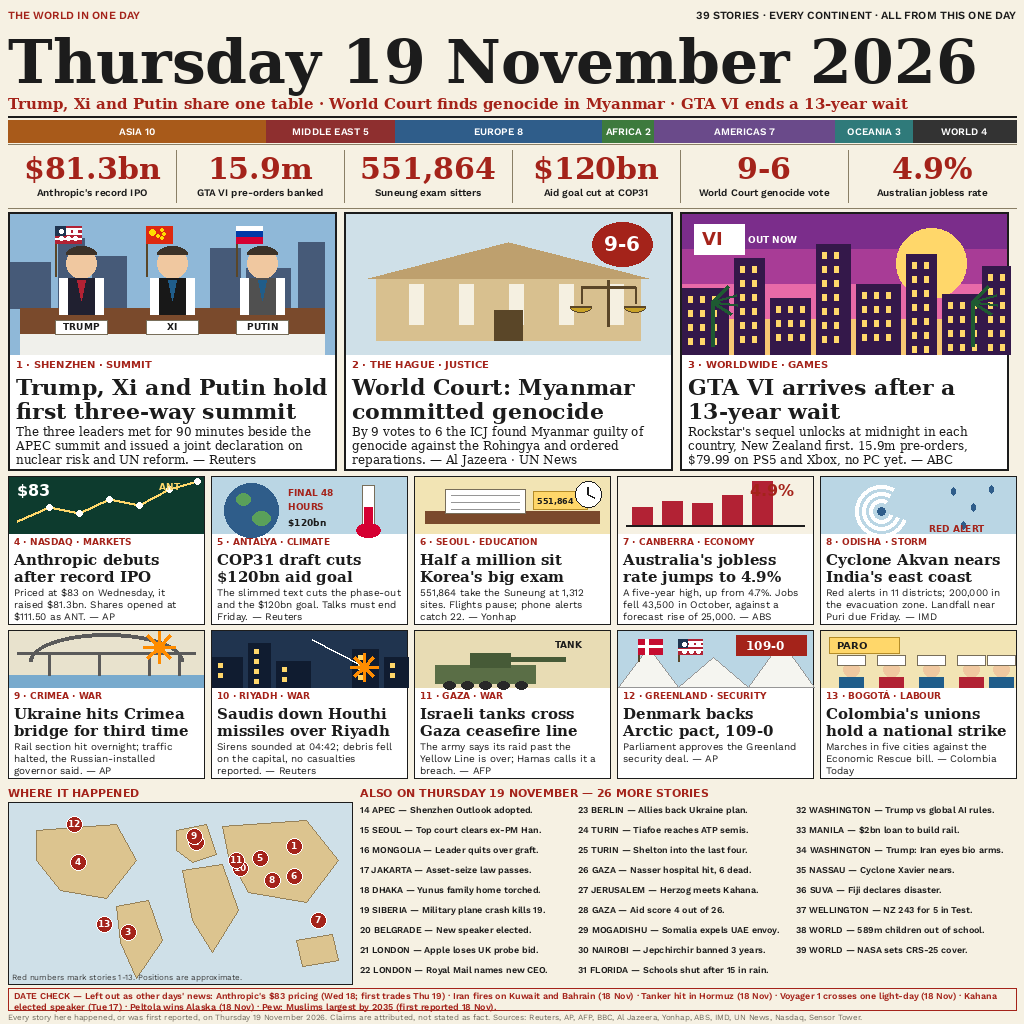
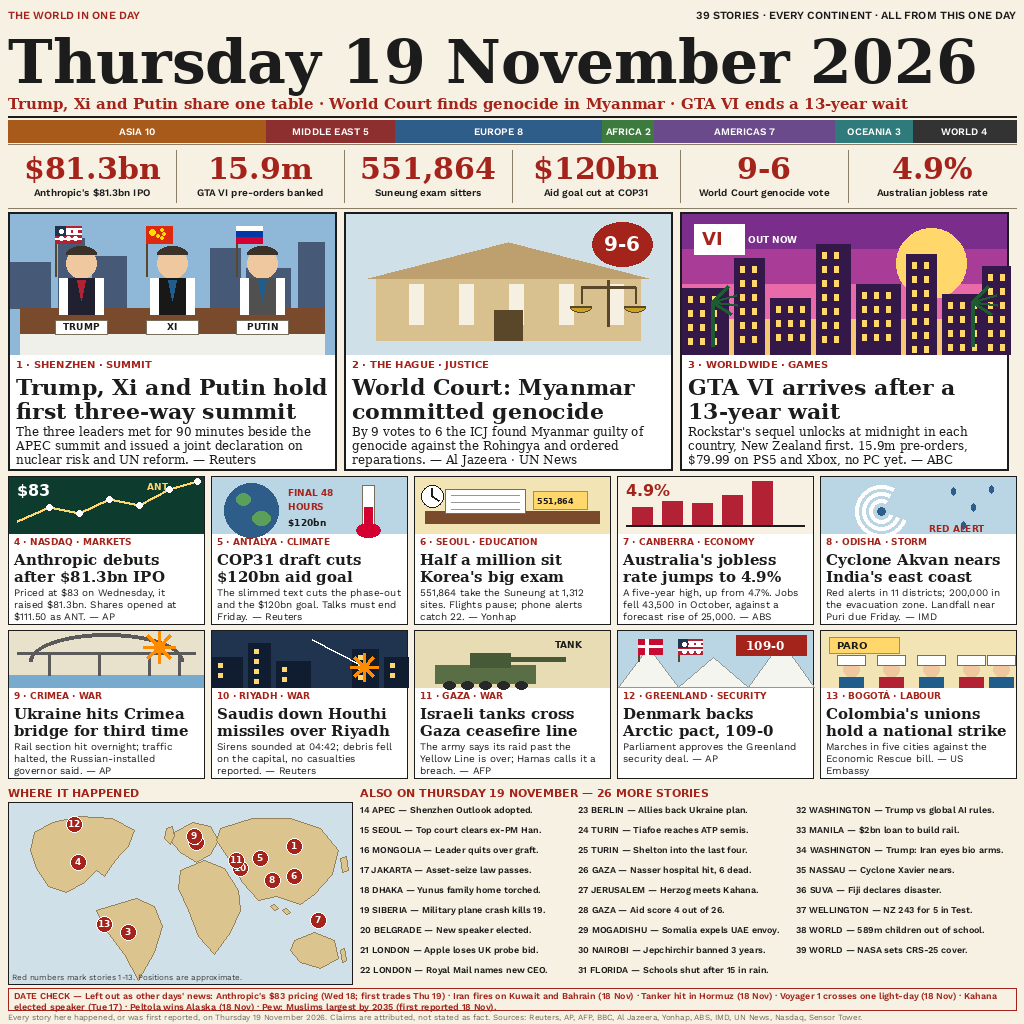
news-image-20261119 v3: audit fixes for judge criteria 4 and 5

diff --git a/make_image.py b/make_image.py
@@ -136,7 +136,7 @@ LEADS = [
 
 MEDIUMS = [
     {"n": 4, "kick": "NASDAQ \u00b7 MARKETS", "art": "anthropic",
-     "head": "Anthropic debuts after record IPO",
+     "head": "Anthropic debuts after $81.3bn IPO",
      "body": "Priced at $83 on Wednesday, it raised $81.3bn. Shares opened at $111.50 as ANT. \u2014 AP"},
     {"n": 5, "kick": "ANTALYA \u00b7 CLIMATE", "art": "cop31",
      "head": "COP31 draft cuts $120bn aid goal",
@@ -164,7 +164,7 @@ MEDIUMS = [
      "body": "Parliament approves the Greenland security deal. \u2014 AP"},
     {"n": 13, "kick": "BOGOT\u00c1 \u00b7 LABOUR", "art": "strike",
      "head": "Colombia's unions hold a national strike",
-     "body": "Marches in five cities against the Economic Rescue bill. \u2014 Colombia Today"},
+     "body": "Marches in five cities against the Economic Rescue bill. \u2014 US Embassy"},
 ]
 
 BRIEFS = [
@@ -201,7 +201,7 @@ REGIONS = [("ASIA", 10, (168, 90, 26)), ("MIDDLE EAST", 5, (142, 47, 47)),
            ("AMERICAS", 7, (106, 74, 138)), ("OCEANIA", 3, (47, 122, 122)),
            ("WORLD", 4, (51, 51, 51))]
 
-NUMBERS = [("$81.3bn", "Anthropic's record IPO"),
+NUMBERS = [("$81.3bn", "Anthropic's $81.3bn IPO"),
            ("15.9m", "GTA VI pre-orders banked"),
            ("551,864", "Suneung exam sitters"),
            ("$120bn", "Aid goal cut at COP31"),
@@ -287,7 +287,7 @@ def illo_anthropic(d, x, y, w, h):
     f = font(SANSB, 16)
     d.text((x + 8, y + 4), "$83", font=f, fill=(255, 255, 255))
     f2 = font(SANSB, 9)
-    d.text((x + 150, y + 4), "ANT", font=f2, fill=(255, 215, 106))
+    d.text((x + 138, y + 4), "ANT", font=f2, fill=(255, 215, 106))
 
 
 def illo_cop31(d, x, y, w, h):
@@ -316,10 +316,10 @@ def illo_suneung(d, x, y, w, h):
                 outline=(180, 140, 40))
     f = font(SANSB, 8)
     d.text((x + 122, y + 19), "551,864", font=f, fill=INK)
-    d.ellipse([x + w - 34, y + 4, x + w - 8, y + 30], fill=(255, 255, 255),
+    d.ellipse([x + 6, y + 8, x + 28, y + 30], fill=(255, 255, 255),
               outline=INK)
-    d.line([x + w - 21, y + 17, x + w - 21, y + 10], fill=INK, width=2)
-    d.line([x + w - 21, y + 17, x + w - 15, y + 20], fill=INK, width=2)
+    d.line([x + 17, y + 19, x + 17, y + 11], fill=INK, width=2)
+    d.line([x + 17, y + 19, x + 23, y + 23], fill=INK, width=2)
 
 
 def illo_jobs(d, x, y, w, h):
@@ -330,7 +330,7 @@ def illo_jobs(d, x, y, w, h):
         d.rectangle([bx, y + h - 8 - bh, bx + 20, y + h - 8], fill=(178, 34, 52))
     d.line([x + 8, y + h - 8, x + w - 8, y + h - 8], fill=INK, width=2)
     f = font(SANSB, 16)
-    d.text((x + w - 62, y + 4), "4.9%", font=f, fill=RED)
+    d.text((x + 8, y + 4), "4.9%", font=f, fill=RED)
 
 
 def illo_cyclone(d, x, y, w, h):
@@ -511,12 +511,24 @@ def draw_mediums(d):
 
 
 CONTINENTS = [
-    [(28, 28), (108, 22), (128, 58), (98, 96), (52, 88), (28, 58)],
-    [(108, 104), (140, 98), (154, 138), (128, 176), (112, 140)],
-    [(168, 28), (198, 22), (208, 52), (184, 60), (168, 48)],
-    [(174, 68), (214, 62), (230, 108), (204, 150), (184, 118)],
-    [(214, 24), (298, 18), (330, 58), (298, 100), (240, 90), (220, 54)],
-    [(288, 138), (324, 132), (330, 158), (294, 164)],
+    [(26, 30), (44, 20), (72, 14), (104, 16), (126, 28), (120, 44), (112, 52),
+     (104, 62), (96, 74), (88, 68), (76, 80), (58, 90), (40, 84), (28, 66), (22, 48)],
+    [(88, 108), (128, 96), (146, 104), (154, 124), (146, 150), (130, 178),
+     (116, 152), (98, 128)],
+    [(166, 30), (184, 20), (202, 24), (210, 38), (202, 52), (188, 60),
+     (172, 50), (162, 38)],
+    [(172, 68), (196, 58), (216, 66), (230, 88), (232, 108), (222, 130),
+     (206, 152), (190, 134), (180, 108), (170, 86)],
+    [(212, 26), (244, 16), (282, 16), (312, 26), (330, 48), (324, 72),
+     (306, 92), (292, 102), (268, 94), (250, 98), (234, 80), (220, 56), (208, 38)],
+    [(286, 138), (306, 130), (326, 138), (330, 156), (312, 166), (292, 160), (282, 148)],
+]
+ISLANDS = [
+    [(158, 26), (164, 24), (166, 34), (162, 42), (156, 36)],
+    [(332, 56), (338, 54), (340, 68), (334, 70)],
+    [(262, 104), (266, 102), (270, 106), (266, 108)],
+    [(274, 108), (278, 106), (282, 110), (278, 112)],
+    [(332, 148), (336, 146), (338, 158), (334, 160)],
 ]
 
 PINS = {1: (286, 44), 2: (188, 40), 3: (120, 130), 4: (70, 60), 5: (252, 56),
@@ -530,6 +542,9 @@ def draw_map(d):
     x0, y0, w, h = M, 802, 344, 182
     d.rectangle([x0, y0, x0 + w, y0 + h], fill=SEA, outline=INK, width=1)
     for poly in CONTINENTS:
+        pts = [(x0 + px, y0 + py) for px, py in poly]
+        d.polygon(pts, fill=LAND, outline=(150, 130, 90))
+    for poly in ISLANDS:
         pts = [(x0 + px, y0 + py) for px, py in poly]
         d.polygon(pts, fill=LAND, outline=(150, 130, 90))
     f_pin = font(SANSB, 9)

diff --git a/README.md b/README.md
@@ -34,6 +34,19 @@ Hormuz tanker hit (both 18 Nov), the Pew Muslims-by-2035 projection
 UAE growth forecast. Anthropic's $83 pricing was Wednesday 18 Nov;
 Thursday 19 Nov is the first trading day (opened at $111.50).
 
+## v3 (audit fixes, current)
+
+Read against the kit's five judge criteria before submission: the
+"record IPO" wording is gone (Reuters notes estimates put SpaceX's
+June raise as high as $86.2bn, so the card and the numbers strip now
+say "$81.3bn IPO" and the source note carries the caveat); the world
+map's continents were redrawn with denser coastlines plus the UK,
+Japan, Indonesia and New Zealand islands, pins unchanged; the
+"4.9%" jobs label no longer sits on the tallest bar; the Suneung
+clock no longer overlaps the "551,864" box; "ANT" moved away from the
+card edge; the Colombia card's source no longer dangles on a third
+line. Story set unchanged: 39 stories.
+
 ## Run it
 
 ```sh
